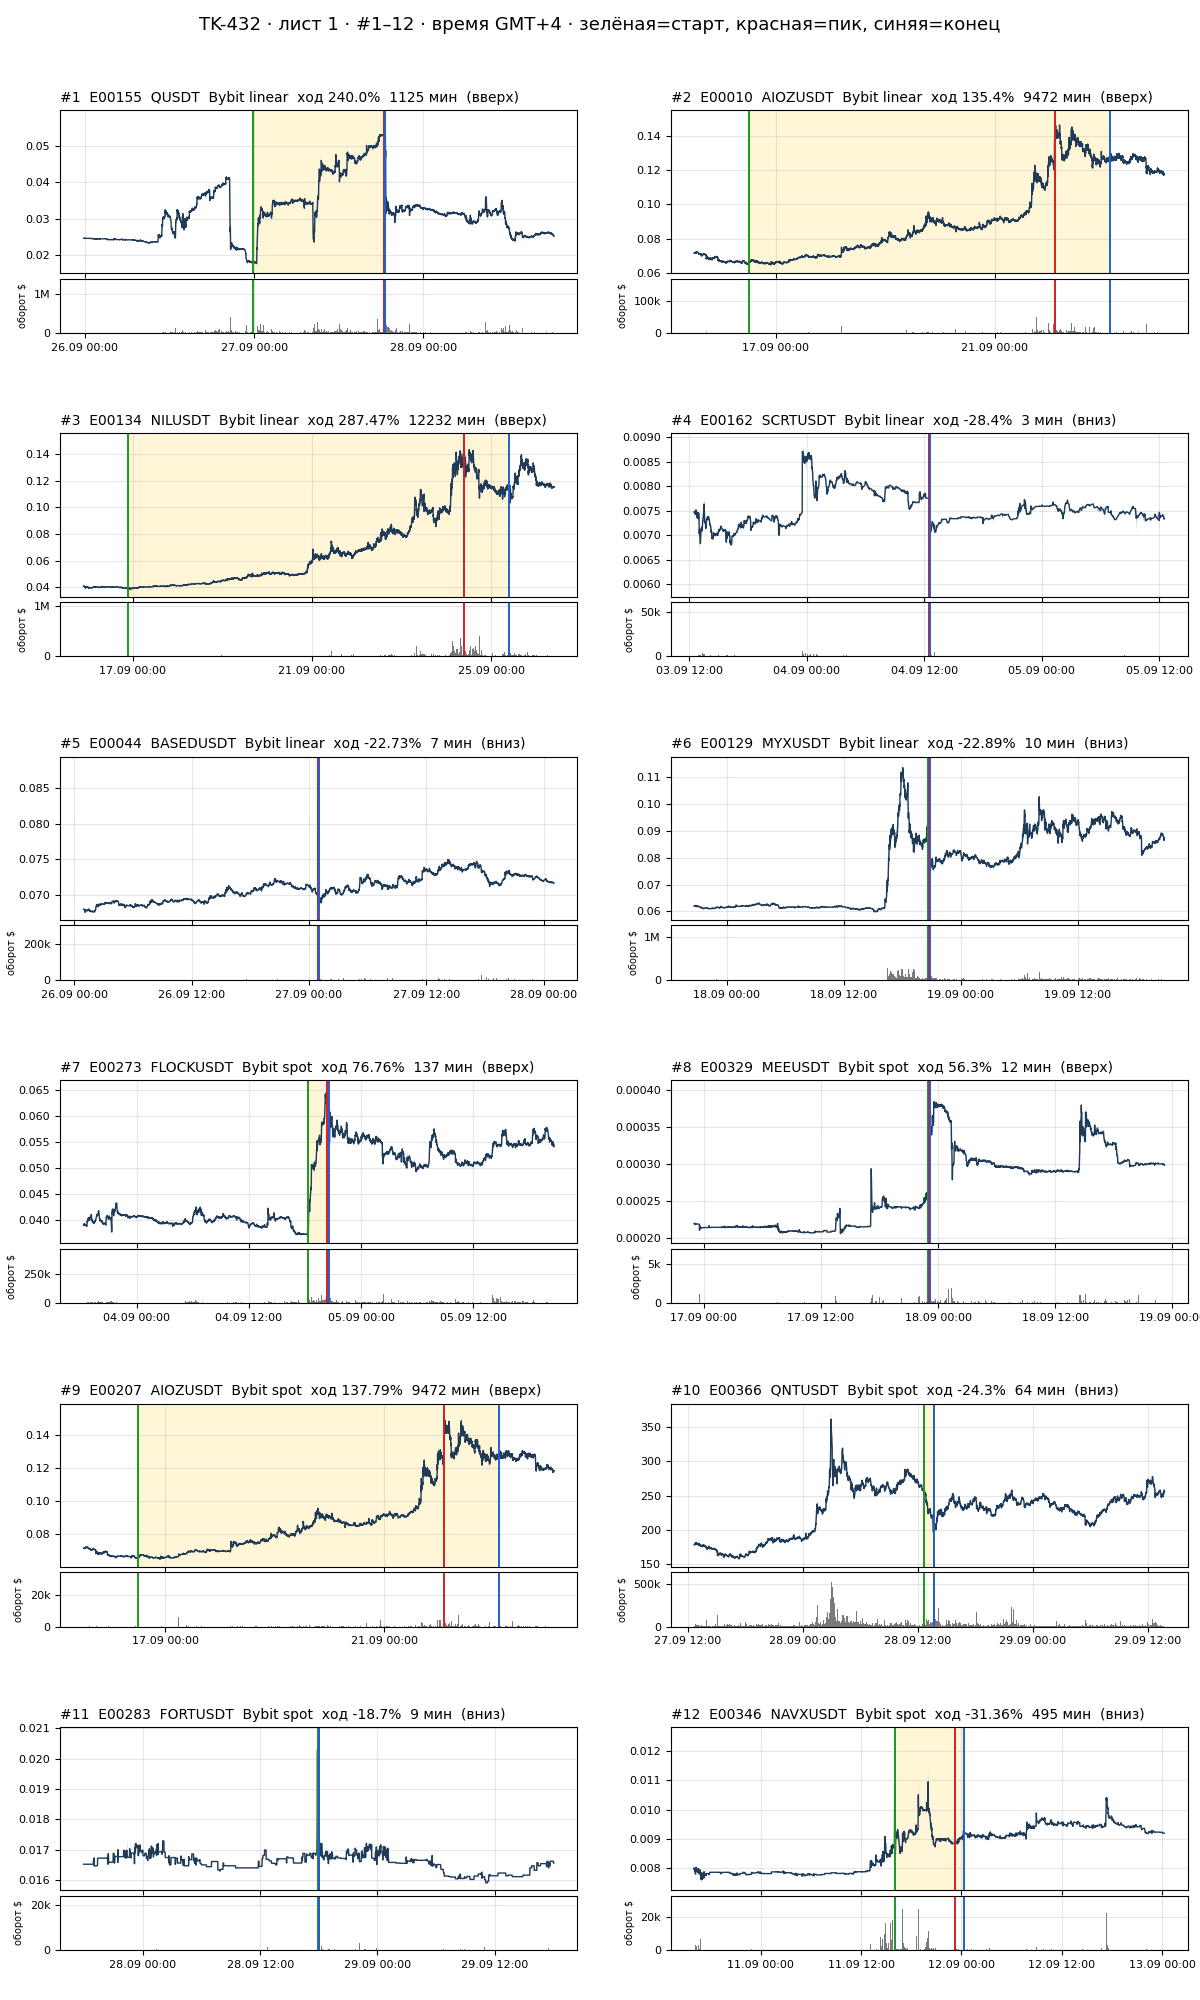
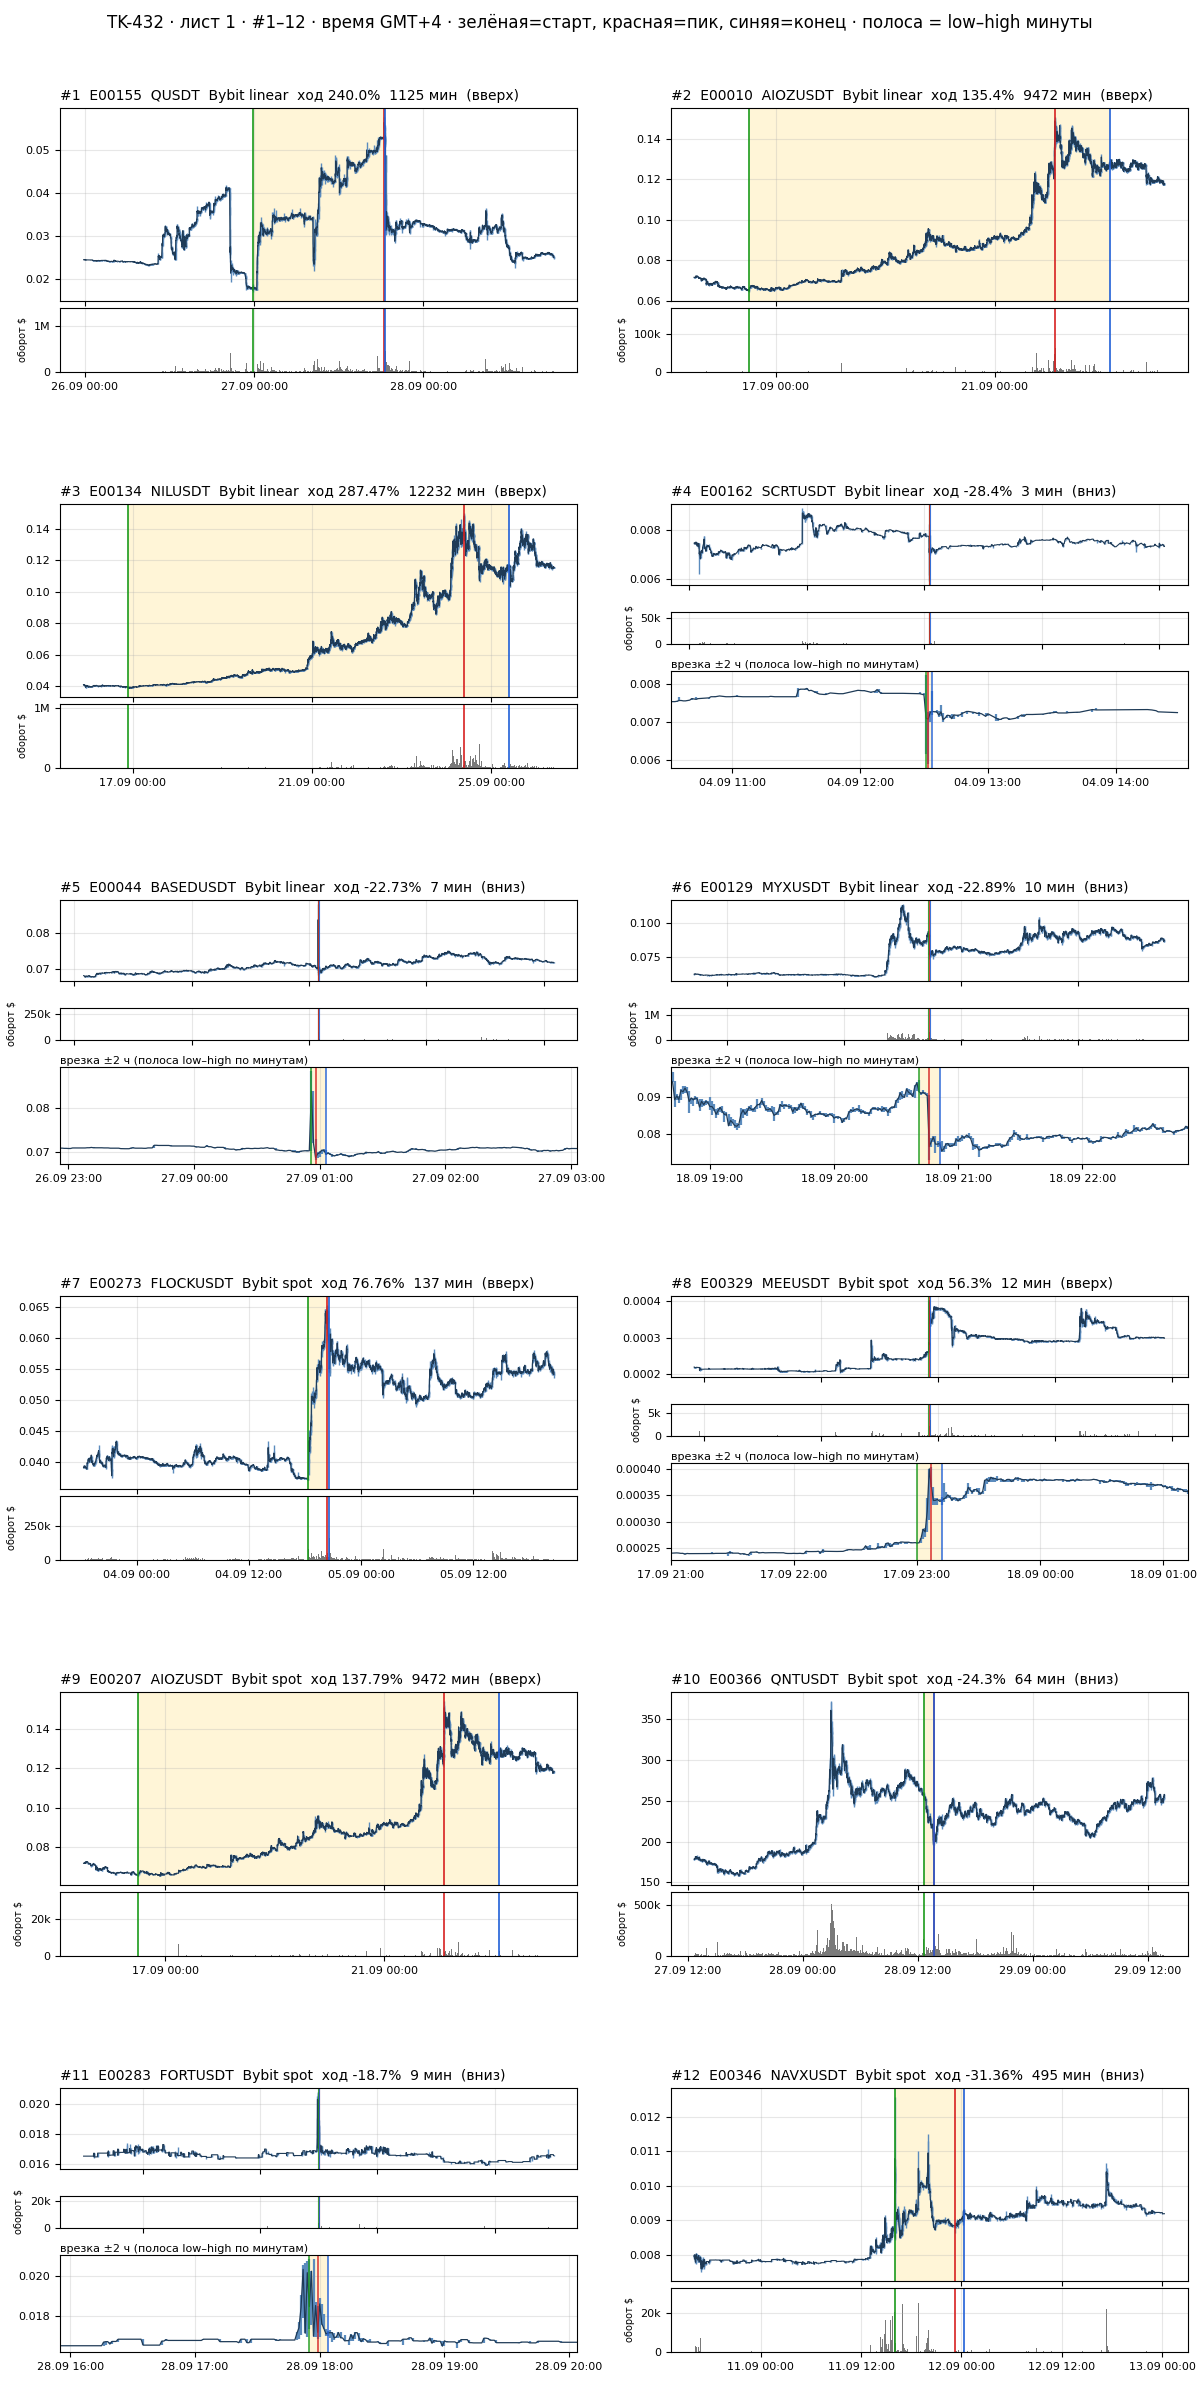
[Инженер] TK-432: листы PNG v2 — полоса low–high + врезка ±2 ч для событий <60 мин

diff --git a/tools/compute/tk432-plot.py b/tools/compute/tk432-plot.py
@@ -20,29 +20,48 @@ dt = lambda ms: datetime.fromtimestamp(ms / 1000, TZ)
 MK = {("bybit", "linear"): "Bybit linear", ("bybit", "spot"): "Bybit spot", ("gate", "futures_usdt"): "Gate fut", ("gate", "spot"): "Gate spot"}
 for sheet in (0, 1):
     items = pick[sheet * 12:(sheet + 1) * 12]
-    fig = plt.figure(figsize=(12, 20), dpi=100)
-    outer = fig.add_gridspec(6, 2, hspace=0.45, wspace=0.18, left=0.05, right=0.99, top=0.945, bottom=0.025)
-    fig.suptitle("TK-432 · лист %d · #%d–%d · время GMT+4 · зелёная=старт, красная=пик, синяя=конец" % (sheet + 1, sheet * 12 + 1, sheet * 12 + len(items)), fontsize=13, y=0.992)
+    fig = plt.figure(figsize=(12, 24), dpi=100)
+    outer = fig.add_gridspec(6, 2, hspace=0.5, wspace=0.18, left=0.05, right=0.99, top=0.955, bottom=0.02)
+    fig.suptitle("TK-432 · лист %d · #%d–%d · время GMT+4 · зелёная=старт, красная=пик, синяя=конец · полоса = low–high минуты" % (sheet + 1, sheet * 12 + 1, sheet * 12 + len(items)), fontsize=12, y=0.994)
     for k, r in enumerate(items):
-        inner = outer[k // 2, k % 2].subgridspec(2, 1, height_ratios=[3, 1], hspace=0.05)
-        ax = fig.add_subplot(inner[0]); bx = fig.add_subplot(inner[1], sharex=ax)
         rows = D[r["id"]]
+        ts, tp, te = (int(r[key]) for key in ("t_start_ms", "t_peak_ms", "t_end_ms"))
+        short = (te - ts) < 3600000
+        inner = outer[k // 2, k % 2].subgridspec(3 if short else 2, 1, height_ratios=[2, 0.8, 2.4] if short else [3, 1], hspace=0.38 if short else 0.05)
+        ax = fig.add_subplot(inner[0]); bx = fig.add_subplot(inner[1], sharex=ax)
         x = [dt(t) for t, *_ in rows]
-        ax.fill_between(x, [v[3] for v in rows], [v[2] for v in rows], color="#9bb7d4", lw=0)
-        ax.plot(x, [v[4] for v in rows], color="#1f3b57", lw=1.0)
-        if len(rows) < 400:
-            ax.plot(x, [v[4] for v in rows], ".", color="#1f3b57", ms=3)
+        lo = [v[3] for v in rows]; hi = [v[2] for v in rows]; cl = [v[4] for v in rows]
+        ax.vlines(x, lo, hi, color="#5b8bbd", lw=1.0)
+        ax.plot(x, cl, color="#1f3b57", lw=0.8)
         bx.bar(x, [v[5] for v in rows], width=1 / 1440, color="#7a7a7a", lw=0)
+        vw = 0.8 if short else 1.4
         for key, c in (("t_start_ms", "#1a9a1a"), ("t_peak_ms", "#d62020"), ("t_end_ms", "#1f5fd6")):
-            for a in (ax, bx):
-                a.axvline(dt(int(r[key])), color=c, lw=1.4)
-        ax.axvspan(dt(int(r["t_start_ms"])), dt(int(r["t_end_ms"])), color="#ffe9a8", alpha=0.45, lw=0)
+            for a_ in (ax, bx):
+                a_.axvline(dt(int(r[key])), color=c, lw=vw, alpha=0.85)
+        ax.axvspan(dt(ts), dt(te), color="#ffe9a8", alpha=0.45, lw=0)
         ax.set_title("#%s  %s  %s  %s  ход %s%%  %s мин  (%s)" % (r["n"], r["id"], r["монета"], MK[(r["биржа"], r["рынок"])], r["ход_%"], r["длит_мин"], "вверх" if r["знак"] == "+" else "вниз"), fontsize=10, loc="left")
         ax.tick_params(labelbottom=False, labelsize=8); bx.tick_params(labelsize=8)
-        bx.xaxis.set_major_formatter(md.DateFormatter("%d.%m %H:%M", tz=TZ))
-        bx.xaxis.set_major_locator(md.AutoDateLocator(minticks=3, maxticks=4, tz=TZ))
         ax.grid(alpha=0.3); bx.grid(alpha=0.3)
         bx.yaxis.set_major_formatter(FuncFormatter(lambda v, _: "%gM" % (v / 1e6) if v >= 1e6 else "%gk" % (v / 1e3) if v >= 1e3 else "%g" % v))
         bx.set_ylabel("оборот $", fontsize=7)
+        fmt = md.DateFormatter("%d.%m %H:%M", tz=TZ)
+        bx.xaxis.set_major_formatter(fmt)
+        bx.xaxis.set_major_locator(md.AutoDateLocator(minticks=3, maxticks=4, tz=TZ))
+        if short:
+            bx.tick_params(labelbottom=False)
+            cx = fig.add_subplot(inner[2])
+            w0, w1 = ts - 7200000, te + 7200000
+            sub = [v for v in rows if w0 <= v[0] <= w1]
+            xs = [dt(v[0]) for v in sub]
+            cx.vlines(xs, [v[3] for v in sub], [v[2] for v in sub], color="#5b8bbd", lw=1.6)
+            cx.plot(xs, [v[4] for v in sub], color="#1f3b57", lw=0.9)
+            for key, c in (("t_start_ms", "#1a9a1a"), ("t_peak_ms", "#d62020"), ("t_end_ms", "#1f5fd6")):
+                cx.axvline(dt(int(r[key])), color=c, lw=1.2, alpha=0.85)
+            cx.axvspan(dt(ts), dt(te), color="#ffe9a8", alpha=0.45, lw=0)
+            cx.set_xlim(dt(w0), dt(w1))
+            cx.set_title("врезка ±2 ч (полоса low–high по минутам)", fontsize=8, loc="left", pad=2)
+            cx.tick_params(labelsize=8); cx.grid(alpha=0.3)
+            cx.xaxis.set_major_formatter(fmt)
+            cx.xaxis.set_major_locator(md.AutoDateLocator(minticks=3, maxticks=5, tz=TZ))
     fig.savefig("%s/pumps-sheet%d.png" % (out, sheet + 1))
     plt.close(fig)
